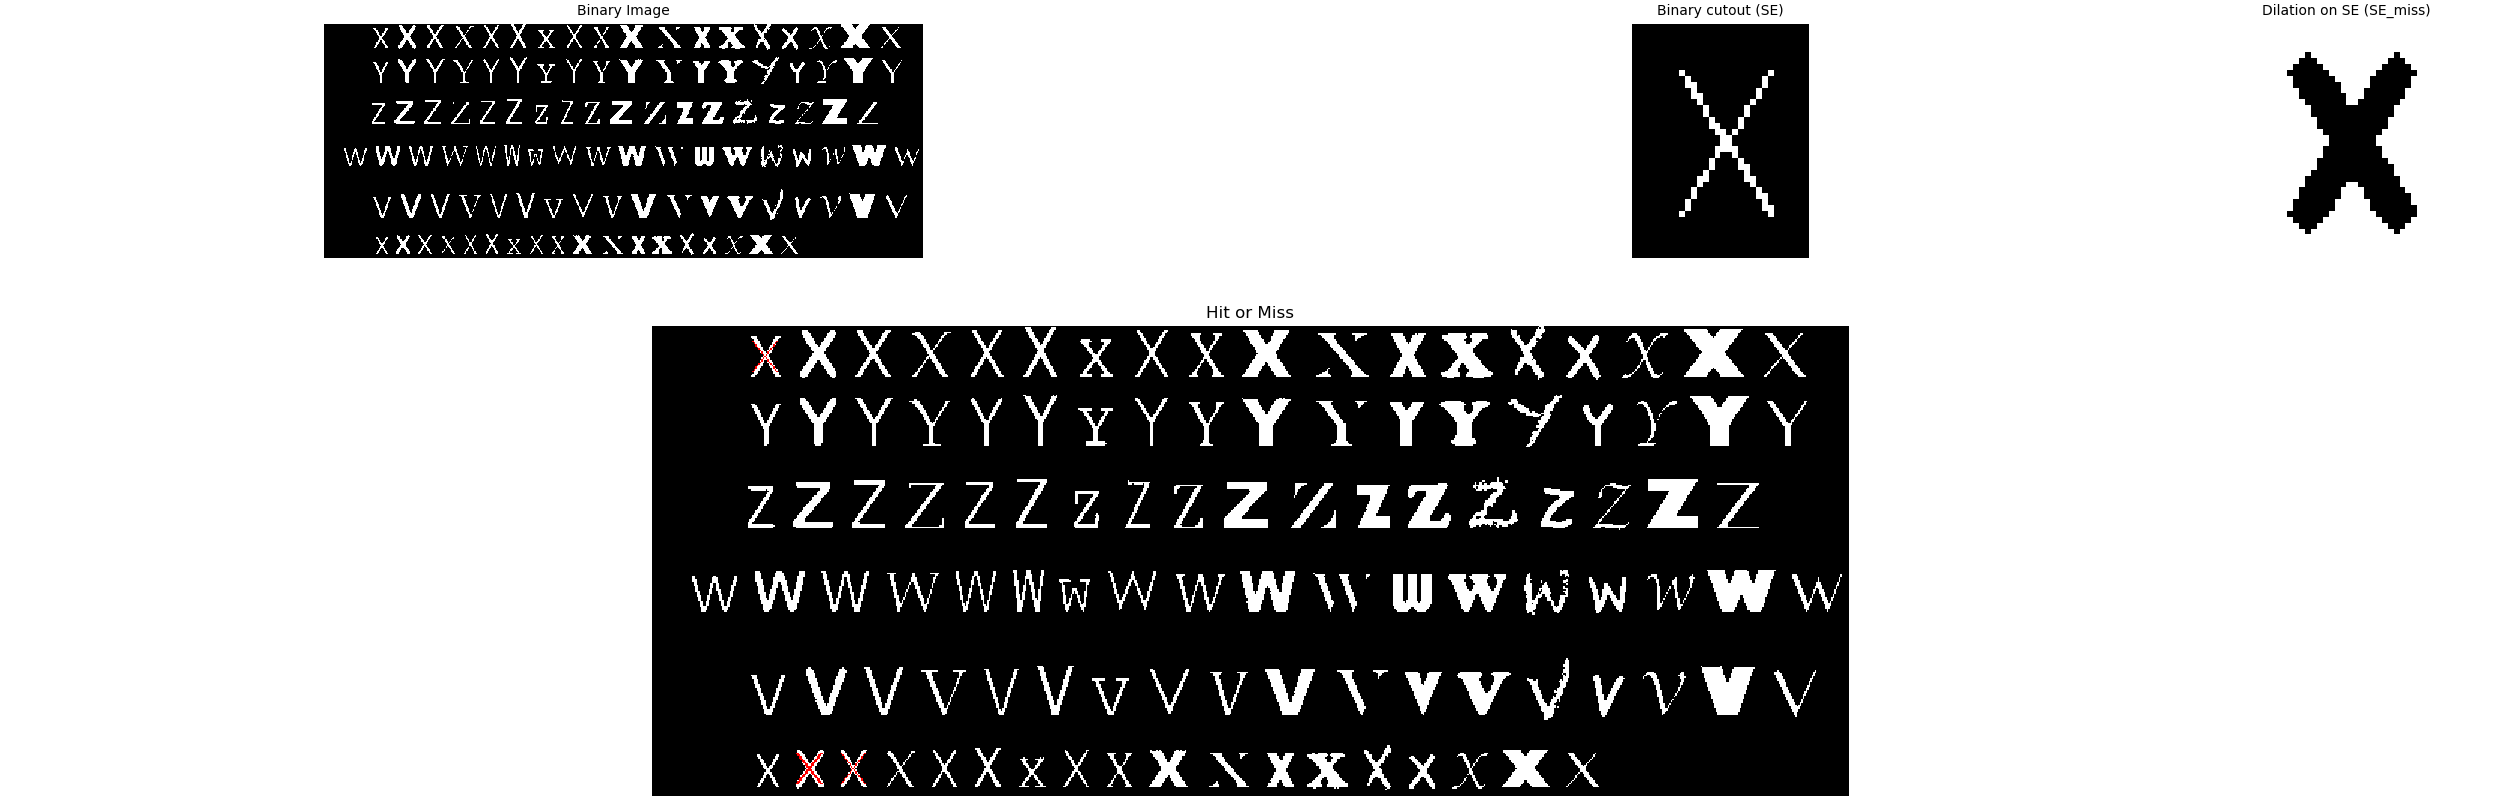
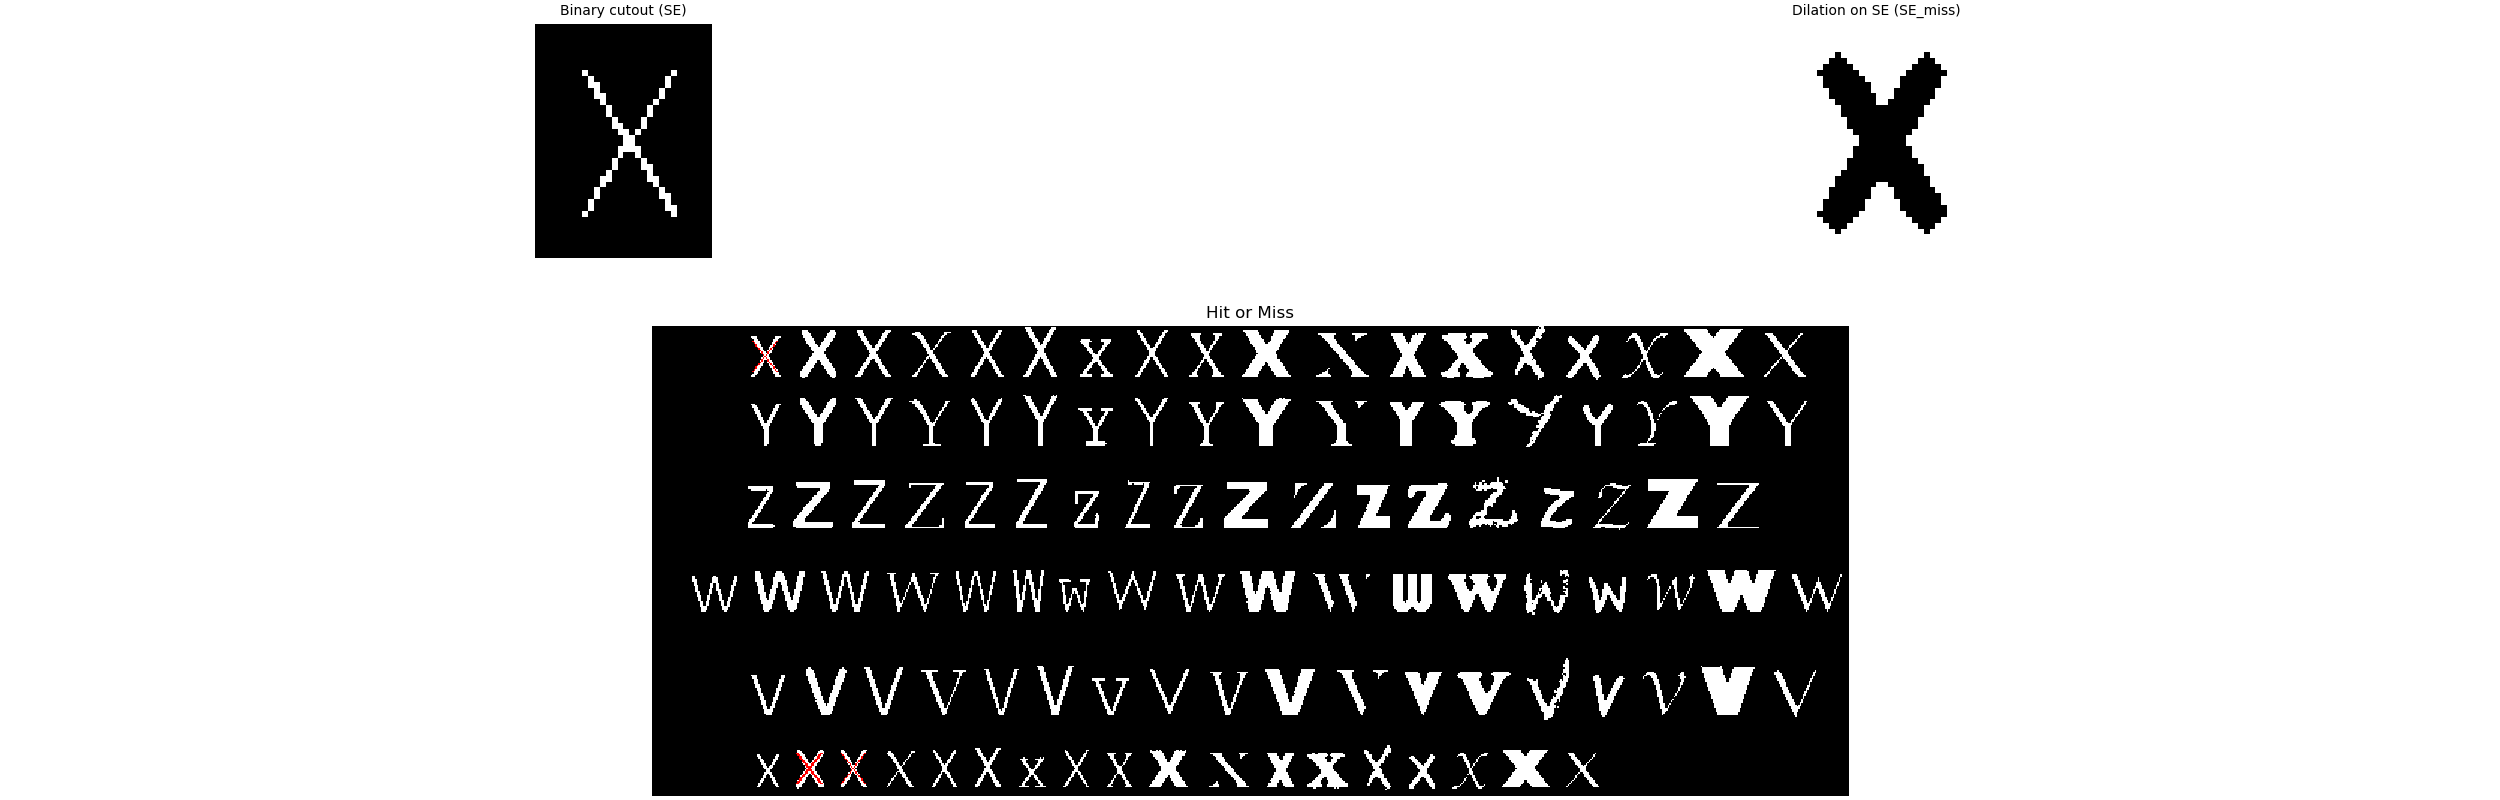
Flere plots vha A4_anders...py

diff --git a/src/A4_Morph_Anders.py b/src/A4_Morph_Anders.py
@@ -104,9 +104,9 @@ def X_marksTspot(I, S_hit, S_miss):
 A = io.imread(imageLoadingFolder + "\digits_binary_inv.png")
 A2 = np.where(A < A.max()/8, 1, 0)
 
-# #direct cut out letter x
-# F1 = A[0:40,60:90] 
-# F1_miss = binary_dilation(F1)
+#direct cut out of letter x from A2
+F1 = A2[0:40,60:90] 
+F1_miss = np.where(F2 == True, 0,1)
 
 F2 = binary_erosion(A2[0:40,60:90])
 F2_miss = np.where(binary_dilation(binary_dilation(binary_dilation(F2))) == True, 0,1)
@@ -121,14 +121,14 @@ fdim = [25,8]
 fig = plt.figure(figsize = (fdim[0], fdim[1]), constrained_layout = True) #
 gs = fig.add_gridspec(fdim[0],fdim[1])
 
-plt.subplot(gs[0:8,0:4]) #fig_d[0], fig_d[1], 1)
-plotImage(gca(), A2, 'Binary Image', gray=True)
+# plt.subplot(gs[0:8,0:4]) #fig_d[0], fig_d[1], 1)
+# plotImage(gca(), A2, 'Binary Image', gray=True)
 
 
-plt.subplot(gs[0:8,5:6]) #fig_d[0], fig_d[1], 3)
+plt.subplot(gs[0:8,0:4]) #fig_d[0], fig_d[1], 3)
 plotImage(gca(), F2, 'Binary cutout (SE)', gray=True)
 
-plt.subplot(gs[0:8,7:8]) #fig_d[0], fig_d[1], 4)
+plt.subplot(gs[0:8,4:8]) #fig_d[0], fig_d[1], 4)
 plotImage(gca(), F2_miss, 'Dilation on SE (SE_miss)', gray=True)
 
 
@@ -145,17 +145,50 @@ close()
 
 
 
+# maybe plot a figure of the naive implementation.. but what is the naive implementation? binary img and filter without erosion and dilation?
+plt.figure()
+ax = gca()
+ax.imshow(X_marksTspot(A2, F1, F1_miss), interpolation='nearest', aspect = 'equal')
+ax.set_title('Naive Hit or Miss')
+ax.axis('off')
+savefig(imageSavingFolder + r"\1-3_naiveMatch.png")
+close()
+
 
 
 #%%
 
 
+# plt.figure()
+# plotImage(gca(), A2, 'Binary Image', gray=True)
+# plt.tight_layout()
+# savefig(imageSavingFolder + r"\1-3_Original.png")
+# close()
 
 
 
+# plt.figure()
+# plotImage(gca(), F2, 'Binary cutout (SE)', gray=True)
+# plt.tight_layout()
+# savefig(imageSavingFolder + r"\1-3_SEhit.png")
+# close()
 
 
+# plt.figure()
+# plotImage(gca(), F2_miss, 'Dilation on SE (SE_miss)', gray=True)
+# plt.tight_layout()
+# savefig(imageSavingFolder + r"\1-3_SEmiss.png")
+# close()
 
+
+# plt.figure()
+# ax.imshow(X_marksTspot(A2, F2, F2_miss), interpolation='nearest', aspect = 'equal')
+# # ax.set_title('Hit or Miss')
+# ax.axis('off')
+
+
+# savefig(imageSavingFolder + r"\1-3_matches.png")
+# close()
 
 
 
